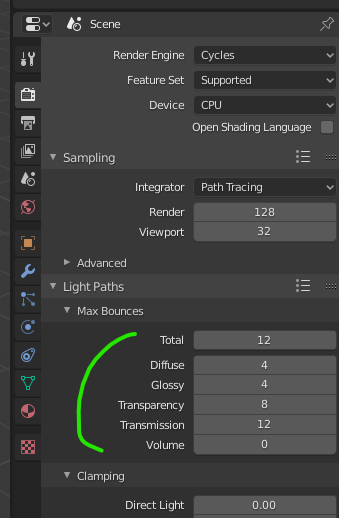
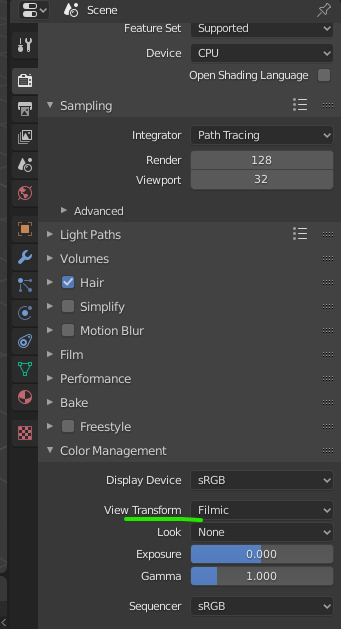
GitBook: [#125] No subject

diff --git a/blender-1/blender/lighting/lighting-with-realistic-values-and-colors.md b/blender-1/blender/lighting/lighting-with-realistic-values-and-colors.md
@@ -4,6 +4,6 @@ Use Exposure setting instead of changing wattage of lamps to change power of the
 
 ![](<../../../.gitbook/assets/image (140).png>)
 
-You can change the color temperature for a light to make it more realistic - similar to changing node values to better reflect a material like gold or jeans.
+You can change the color temperature for a light to make it more realistic - similar to changing node values to better reflect a material like gold or jeans. A incandescent bulb would be about 2700 for temperature.
 
 ![](<../../../.gitbook/assets/image (141).png>)

diff --git a/SUMMARY.md b/SUMMARY.md
@@ -65,6 +65,7 @@
   * [Lighting](blender-1/blender/lighting.md)
     * [Indirect Lighting and Light Bounces](blender-1/blender/lighting/indirect-lighting-and-light-bounces.md)
     * [Lighting with Realistic Values and Colors](blender-1/blender/lighting/lighting-with-realistic-values-and-colors.md)
+    * [Scopes and Color Management](blender-1/blender/lighting/scopes-and-color-management.md)
 
 ## Inkscape <a href="#inkscape-1" id="inkscape-1"></a>
 

diff --git a/blender-1/blender/lighting/indirect-lighting-and-light-bounces.md b/blender-1/blender/lighting/indirect-lighting-and-light-bounces.md
@@ -2,4 +2,4 @@
 
 In cycles, you can go under render > light paths to decide how many times the light bounces before it hits for specific materials. The higher the bounce is, the more accurate the colors coming form the lights will be. Usually the default values are pretty good.
 
-![](<../../../.gitbook/assets/image (142).png>)
+![](<../../../.gitbook/assets/image (142) (1).png>)

diff --git a/blender-1/blender/lighting/scopes-and-color-management.md b/blender-1/blender/lighting/scopes-and-color-management.md
@@ -1,0 +1,5 @@
+# Scopes and Color Management
+
+**Filmic** gives you a higher dynamic range to work with and adjusts the saturation to behave realistically in bright areas.
+
+![](<../../../.gitbook/assets/image (142).png>)
